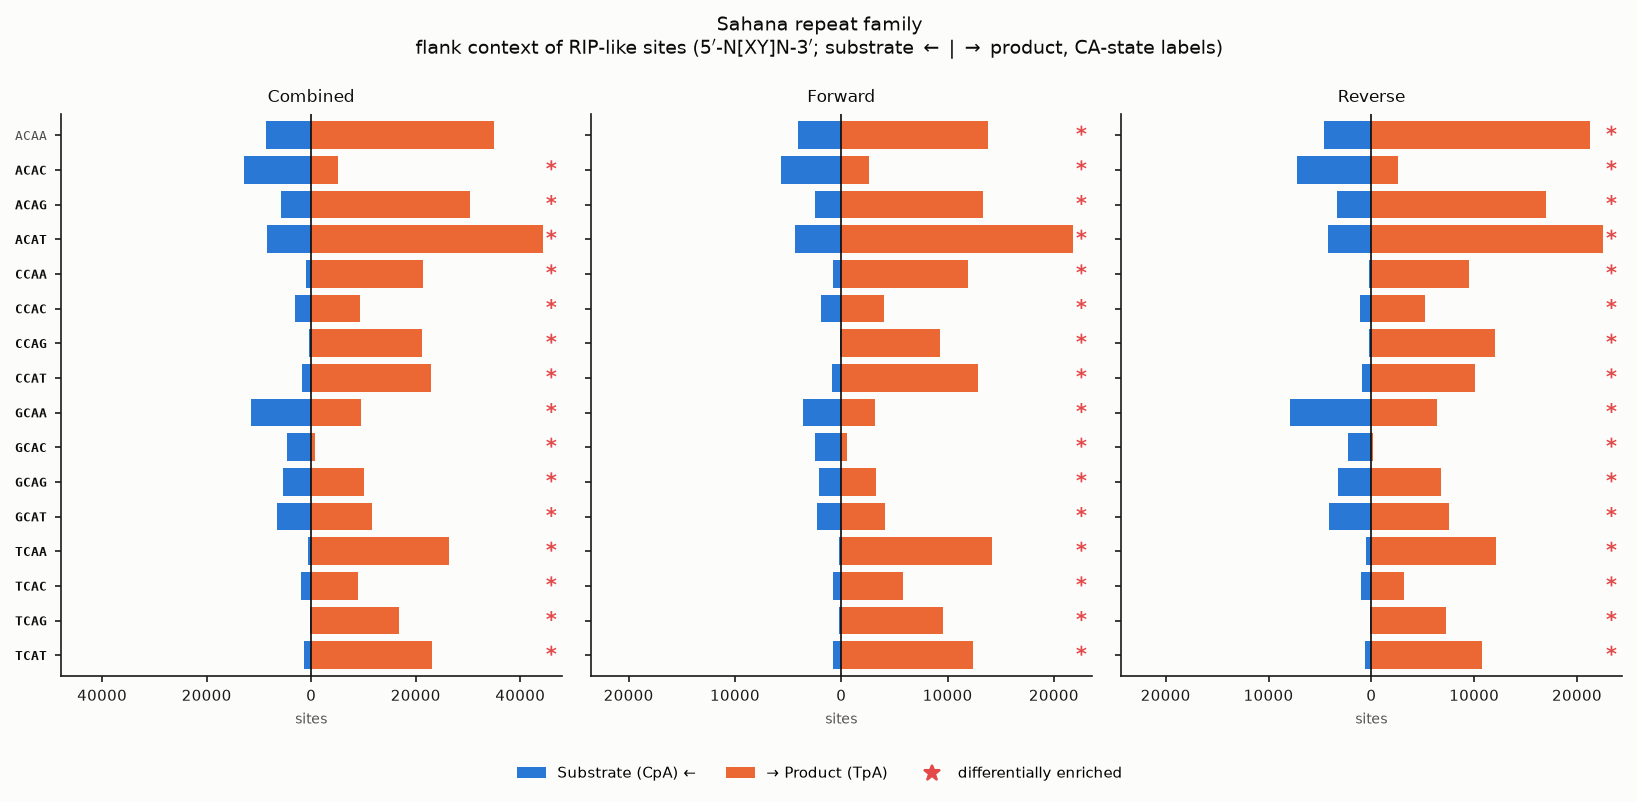
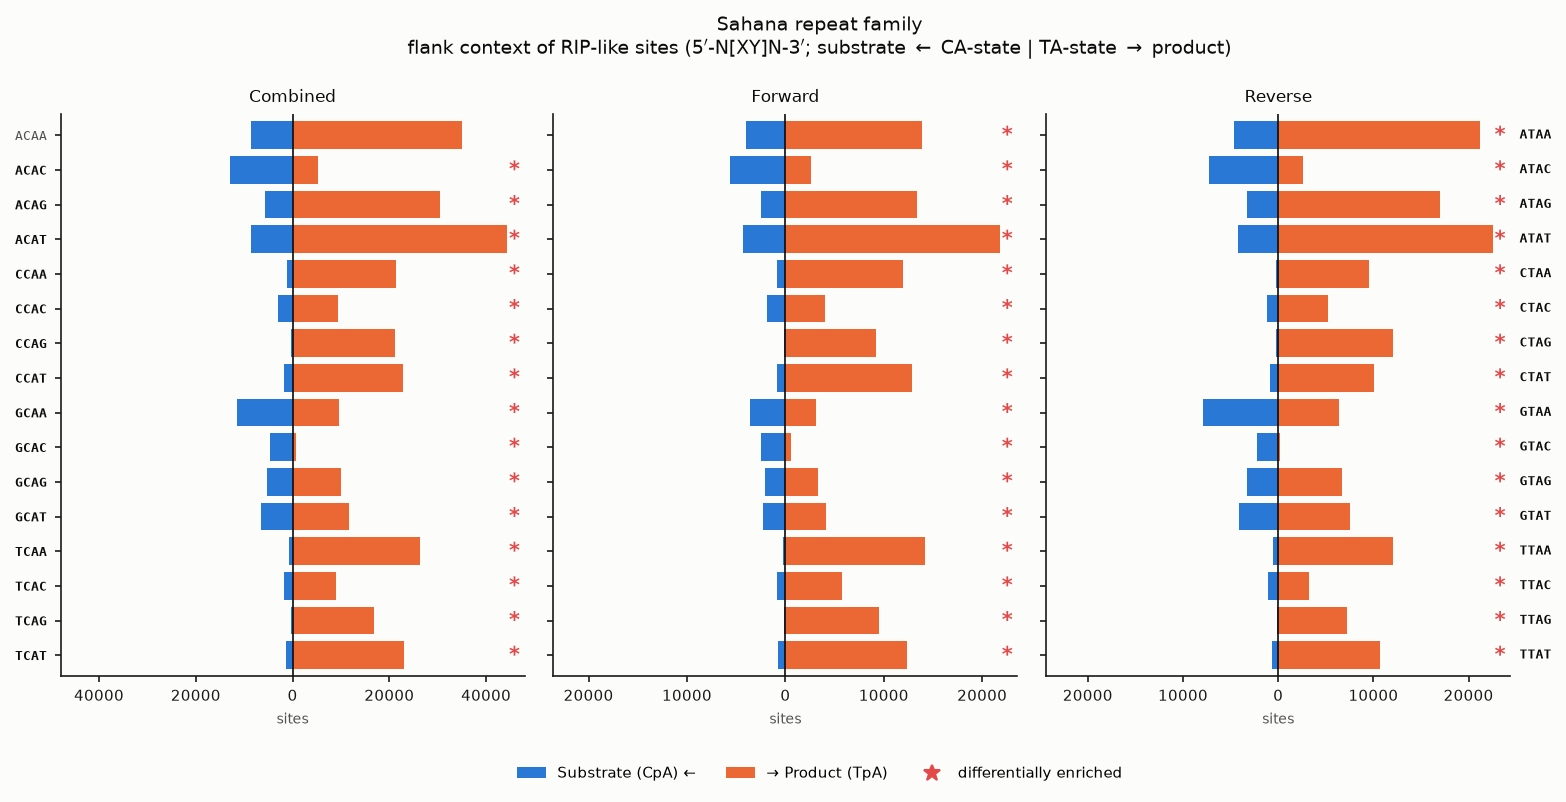
style: TA-state right axis + explain the enrichment test in the report
- plotting/flank_spectra: the rightmost bihistogram panel now carries the
  equivalent TA-state (product) motif on a right-hand y-axis (free text just
  outside the spine, so the figure stays three axes), pairing each row's
  left-side CA-state (substrate) label with its product form (GCAG ≡ GTAG).
  Caption + right margin updated; significant rows bolded on both sides.
- persequence_report: the section prose now names both axes and explains the
  per-motif significance mark — each flank context's substrate/product counts
  are one row of a 16x2 table whose adjusted standardised (Haberman) residual
  is tested against the normal (|z| >= 1.96, p < 0.05), gated on >= 20 sites per
  state, no correction; the omnibus chi-squared drives the comparison table.
  The overview note adds the huge-pooled-n caveat.
- Tests: rightmost panel exposes the TA-state labels (and not the CA set).
  Docs + regenerated Sahana figure.

Claude-Session: https://claude.ai/code/session_01GjZ5qJ5ZXjkbPAiS8wbFLo

diff --git a/src/derip2/plotting/flank_spectra.py b/src/derip2/plotting/flank_spectra.py
@@ -45,7 +45,7 @@ from derip2.plotting.strandbias import (
     SURFACE,
     TITLE_SIZE,
 )
-from derip2.spectra.flank_channels import FLANK16_LABELS_CA
+from derip2.spectra.flank_channels import FLANK16_LABELS_CA, FLANK16_LABELS_TA
 from derip2.stats.flank_spectra import differential_channels
 
 logger = logging.getLogger(__name__)
@@ -65,7 +65,7 @@ SIG_COLOR = '#e34948'
 # Short caption distinguishing this context model in figure headings.
 _FLANK_CAPTION = (
     r'flank context of RIP-like sites (5$^\prime$-N[XY]N-3$^\prime$; '
-    r'substrate $\leftarrow$ | $\rightarrow$ product, CA-state labels)'
+    r'substrate $\leftarrow$ CA-state | TA-state $\rightarrow$ product)'
 )
 
 
@@ -95,6 +95,7 @@ def _draw_bihistogram(
     *,
     sig_mask: np.ndarray,
     show_labels: bool,
+    show_right_labels: bool,
     percentage: bool,
 ) -> None:
     """
@@ -108,10 +109,15 @@ def _draw_bihistogram(
         ``(16,)`` channel counts for the two states, in canonical flank order.
     sig_mask : numpy.ndarray
         ``(16,)`` boolean mask of channels differentially enriched between the
-        states; those rows get a highlight band and a marker.
+        states; those rows get a significance marker.
     show_labels : bool
-        Draw the per-row CA-state motif tick labels (only the leftmost panel of a
-        multi-panel figure needs them, since the rows align).
+        Draw the per-row **CA-state** (substrate) motif tick labels on the left
+        y-axis (only the leftmost panel of a multi-panel figure needs them, since
+        the rows align).
+    show_right_labels : bool
+        Draw the per-row **TA-state** (product) motif labels on a right-hand
+        y-axis (only the rightmost panel needs them), so each row is named by both
+        the substrate motif on the left and its product equivalent on the right.
     percentage : bool
         Rescale each state to sum to 100 before plotting (default is raw counts).
 
@@ -175,6 +181,24 @@ def _draw_bihistogram(
                 label.set_fontweight('bold')
     else:
         ax.set_yticklabels([])
+
+    # Right-hand y-axis: the equivalent TA-state (product) motif for each row,
+    # drawn as free text just outside the right spine so it needs no extra axes
+    # (keeping the figure at three panels). Significant rows are bolded to match.
+    if show_right_labels:
+        for i, motif in enumerate(FLANK16_LABELS_TA):
+            ax.text(
+                1.02,
+                i,
+                motif,
+                transform=trans,
+                ha='left',
+                va='center',
+                family='monospace',
+                fontsize=CONTEXT_TICK_SIZE,
+                color=INK_PRIMARY if sig_mask[i] else INK_SECONDARY,
+                fontweight='bold' if sig_mask[i] else 'normal',
+            )
 
 
 def _strand_vectors(result, sample: Optional[int]):
@@ -259,6 +283,7 @@ def _draw_bihistogram_figure(
                 prod,
                 sig_mask=sig,
                 show_labels=(c == 0),
+                show_right_labels=(c == len(_STRANDS) - 1),
                 percentage=percentage,
             )
             ax.set_title(
@@ -296,7 +321,10 @@ def _draw_bihistogram_figure(
         if not bare:
             heading = f'{title}\n{_FLANK_CAPTION}' if title else _FLANK_CAPTION
             fig.suptitle(heading, fontsize=TITLE_SIZE, color=INK_PRIMARY)
-        fig.tight_layout(rect=(0, 0.04, 1, 1))
+        # Reserve a right margin for the free-text TA-state labels (they sit
+        # outside the axes, so tight_layout does not account for them) and a
+        # bottom strip for the legend.
+        fig.tight_layout(rect=(0, 0.04, 0.955, 1))
     return fig
 
 

diff --git a/src/derip2/persequence_report.py b/src/derip2/persequence_report.py
@@ -1241,12 +1241,20 @@ def _panel_html(
         '<b>substrate</b> counts (CpA forward / TpG reverse, counted anywhere) '
         'extend left and realised RIP <b>product</b> counts (TpA in RIP-informative '
         'columns) extend right, sharing a centre line. Reverse-strand motifs are '
-        'reverse-complemented onto the CpA/TpA strand and every row is labelled by '
-        'its <b>CA-state</b> motif (e.g. <code>GCAG</code> labels the substrate '
-        '<code>GCAG</code> and the equivalent product <code>GTAG</code>). Rows '
-        'marked <span style="color:#e34948">*</span> are differentially enriched '
-        'between the two states; the table below tests the same substrate-vs-product '
-        'question overall, and whether the strands differ.</p>'
+        'reverse-complemented onto the CpA/TpA strand and every row is labelled on '
+        'the left by its <b>CA-state</b> (substrate) motif and on the right by the '
+        'equivalent <b>TA-state</b> (product) motif (e.g. <code>GCAG</code> '
+        '&equiv; <code>GTAG</code>). A motif is marked '
+        '<span style="color:#e34948">*</span> when its enrichment differs '
+        'significantly between the two states: for each of the 16 flank contexts '
+        'the substrate and product counts form one row of a 16&times;2 table, and '
+        'that cell&rsquo;s <b>adjusted standardised (Haberman) residual</b> is '
+        'tested against the standard normal &mdash; the motif is flagged when '
+        '|z|&nbsp;&ge;&nbsp;1.96 (two-sided <i>p</i>&nbsp;&lt;&nbsp;0.05), provided '
+        'both states have at least 20 sites, with no multiple-testing correction. '
+        'The table below tests the same substrate-vs-product question overall '
+        '(via the &chi;&sup2; homogeneity of the whole 16-channel spectra), and '
+        'whether the two strands differ.</p>'
         f'<div class="spectrum-scroll">{flank_svg}</div>'
         f'{flank_table}'
         '<h3>Summary statistics</h3>'
@@ -1707,11 +1715,14 @@ def _overview_html(
             '<h3>Flanking-context spectra of RIP-like sites</h3>'
             '<p class="desc">Pooled across all sequences, as three bihistograms '
             '(surviving <b>substrate</b> CpA/TpG left, realised <b>product</b> TpA '
-            'right, one row per CA-state flank motif, reverse-strand motifs folded '
-            'onto the CpA/TpA strand). Rows marked '
-            '<span style="color:#e34948">*</span> are differentially enriched '
-            'between the states &mdash; evidence that local context influences which '
-            'substrates escape RIP.</p>'
+            'right; CA-state motif on the left axis, equivalent TA-state motif on '
+            'the right; reverse-strand motifs folded onto the CpA/TpA strand). A '
+            'motif is marked <span style="color:#e34948">*</span> when its '
+            'substrate-vs-product enrichment is significant (adjusted standardised '
+            'residual, |z|&nbsp;&ge;&nbsp;1.96) &mdash; evidence that local context '
+            'influences which substrates escape RIP. At this pooled scale the site '
+            'counts are large enough that almost every context is flagged, so read '
+            'the effect sizes in the table rather than the marks.</p>'
             f'<div class="spectrum-scroll">{flank_svg}</div>'
             f'{_flank_skipped_note(flank)}'
             f'{_flank_comparison_table_html(pooled_cmp)}'

diff --git a/tests/test_flank_spectra_plot.py b/tests/test_flank_spectra_plot.py
@@ -26,7 +26,7 @@ from derip2.plotting.flank_spectra import (
     plot_flank_bihistograms,
     plot_flank_bihistograms_pooled,
 )
-from derip2.spectra.flank_channels import FLANK16_LABELS_CA
+from derip2.spectra.flank_channels import FLANK16_LABELS_CA, FLANK16_LABELS_TA
 from derip2.stats.flank_spectra import FlankSpectraResult, compute_flank_spectra
 
 
@@ -111,6 +111,18 @@ def test_leftmost_panel_labels_are_ca_state():
     # The other panels share the rows, so they carry no y labels.
     other_labels = [t.get_text() for t in fig.axes[1].get_yticklabels()]
     assert set(other_labels) <= {''}
+
+
+def test_rightmost_panel_has_ta_state_labels():
+    """The rightmost panel carries the TA-state motif labels on its right side."""
+    result = make_result(['GCAT', 'GTAT'])
+    fig = plot_flank_bihistograms(result, sample=0)
+    right_ax = fig.axes[2]
+    texts = {t.get_text() for t in right_ax.texts}
+    # Every TA-state motif label appears as free text on the rightmost panel.
+    assert set(FLANK16_LABELS_TA) <= texts
+    # The CA-state (substrate) labels are not repeated there.
+    assert not (set(FLANK16_LABELS_CA) & texts)
 
 
 def test_significant_motifs_are_marked():

diff --git a/docs/tutorials/per-sequence-reporting.md b/docs/tutorials/per-sequence-reporting.md
@@ -98,11 +98,17 @@ states are counted:
 Reverse-strand motifs are reverse-complemented onto the `CpA`/`TpA` strand, and
 each strand view — **combined, forward, reverse** — is drawn as a **bihistogram**:
 substrate counts (blue) extend left and product counts (orange) extend right of a
-shared centre line. Every row is labelled by its **CA-state** motif, so a single
-label covers both states — `GCAG` labels the substrate `GCAG` and the equivalent
-product `GTAG`. Motifs whose enrichment differs significantly between the two
-states (adjusted standardised residual beyond the 0.05 critical value, when both
-states have ≥ 20 sites) are marked with a red `*`.
+shared centre line. Each row is named on both sides — the **CA-state** (substrate)
+motif on the left y-axis and the equivalent **TA-state** (product) motif on the
+right (`GCAG` on the left ≡ `GTAG` on the right).
+
+A motif is marked with a red `*` when its enrichment differs significantly between
+the two states. For each of the 16 flank contexts the substrate and product counts
+form one row of a 16×2 table, and that cell's **adjusted standardised (Haberman)
+residual** is compared to the standard normal: the motif is flagged when
+`|z| ≥ 1.96` (two-sided *p* < 0.05), provided both states have ≥ 20 sites, with no
+multiple-testing correction. (On the pooled overview the counts are large enough
+that almost every context clears this bar, so lean on the effect sizes there.)
 
 ![Flanking-context spectra of RIP-like sites](../img/flank_context_spectra.png)
 